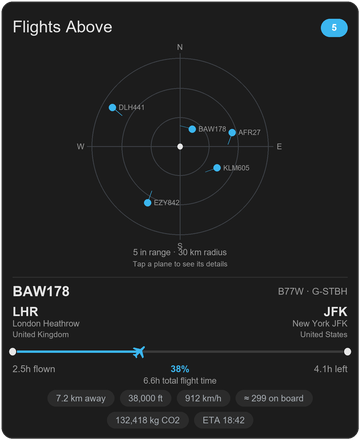
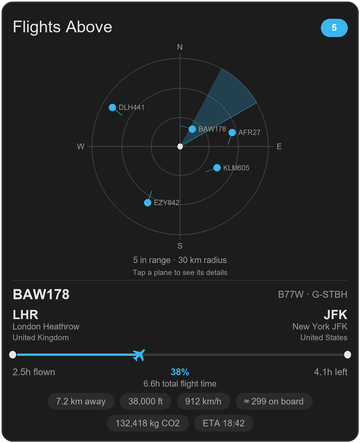
Radar sweep on each refresh; more space under the radar
- The radar plays a single sweep, like a real one, each time new data
  arrives (not a constant spin). Respects prefers-reduced-motion.
- The card now only re-renders when its own data or the selection
  changes, so the sweep fires once per refresh instead of every tick.
- Caption no longer touches the radar; screenshots regenerated.

diff --git a/custom_components/flights_above/lovelace/flights-above-card.js b/custom_components/flights_above/lovelace/flights-above-card.js
@@ -44,6 +44,24 @@ class FlightsAboveCard extends HTMLElement {
 
   set hass(hass) {
     this._hass = hass;
+    if (!this._config) return;
+
+    // Only re-render when our own data (or the selection) actually changed, and
+    // trigger one radar sweep per data refresh rather than on every tick.
+    const parts = [];
+    const countObj = hass.states[this._countEntityId()];
+    if (countObj) parts.push(countObj.last_updated);
+    for (const id of this._flightEntityIds()) {
+      const s = hass.states[id];
+      if (s) parts.push(s.last_updated);
+    }
+    const dataStamp = parts.join(",");
+    const stamp = `${dataStamp}|${this._selected || ""}`;
+    if (stamp === this._stamp) return;
+
+    this._sweep = Boolean(dataStamp) && dataStamp !== this._dataStamp;
+    this._dataStamp = dataStamp;
+    this._stamp = stamp;
     this._render();
   }
 
@@ -227,6 +245,14 @@ class FlightsAboveCard extends HTMLElement {
           <text x="196" y="103" text-anchor="end" class="dir">E</text>
           <text x="100" y="196" text-anchor="middle" class="dir">S</text>
           <text x="4" y="103" text-anchor="start" class="dir">W</text>
+          ${
+            this._sweep
+              ? `<g class="sweep">
+                   <path class="sweep-wedge" d="M100,100 L100,14 A86,86 0 0,1 143,25.5 Z"/>
+                   <line x1="100" y1="100" x2="100" y2="14"/>
+                 </g>`
+              : ""
+          }
           <circle cx="100" cy="100" r="3.5" class="home"/>
           ${marks}
         </svg>
@@ -323,6 +349,9 @@ class FlightsAboveCard extends HTMLElement {
     this.shadowRoot.querySelectorAll(".hit").forEach((el) => {
       el.addEventListener("click", () => this._select(el.getAttribute("data-cs")));
     });
+
+    // The sweep plays once per data refresh, not on selection re-renders.
+    this._sweep = false;
   }
 
   _styles() {
@@ -431,8 +460,23 @@ class FlightsAboveCard extends HTMLElement {
       .radar .blip-label { fill: var(--secondary-text-color); font-size: 9px; }
       .radar .blip-label.sel { fill: var(--primary-text-color); font-weight: 700; }
       .radar .hit { fill: transparent; cursor: pointer; }
+      .radar .sweep {
+        transform-box: view-box; transform-origin: 100px 100px;
+        animation: fa-sweep 1.8s linear 1 forwards; pointer-events: none;
+      }
+      .radar .sweep line {
+        stroke: var(--primary-color); stroke-width: 2; stroke-linecap: round;
+      }
+      .radar .sweep-wedge { fill: var(--primary-color); opacity: 0.18; }
+      @keyframes fa-sweep {
+        from { transform: rotate(0deg); opacity: 1; }
+        to { transform: rotate(360deg); opacity: 0; }
+      }
+      @media (prefers-reduced-motion: reduce) {
+        .radar .sweep { animation: none; opacity: 0; }
+      }
       .radar-caption {
-        margin-top: 4px; font-size: 0.75rem; color: var(--secondary-text-color);
+        margin-top: 12px; font-size: 0.75rem; color: var(--secondary-text-color);
       }
       .radar-note {
         margin-top: 2px; font-size: 0.7rem; color: var(--secondary-text-color);

diff --git a/README.md b/README.md
@@ -13,7 +13,7 @@ with hours, an estimated CO₂ footprint, and people on board (light and dark):
 Turn on `show_radar` and it also draws a radar of **every** aircraft around you,
 plotted by real bearing and distance:
 
-![Radar view, light](https://raw.githubusercontent.com/Tobhs/flights_above/main/assets/radar-view-light.png) ![Radar view, dark](https://raw.githubusercontent.com/Tobhs/flights_above/main/assets/radar-view-dark.png)
+![Radar view, light](https://raw.githubusercontent.com/Tobhs/flights_above/main/assets/radar-view-light.png?v=2) ![Radar view, dark](https://raw.githubusercontent.com/Tobhs/flights_above/main/assets/radar-view-dark.png?v=2)
 
 All data comes from **free, open community APIs: no account, no API key, nothing
 to pay**:
@@ -166,7 +166,7 @@ Set `show_radar: true` to draw a radar around your location. Your position is th
 centre, north is up, and every aircraft currently inside your radius is plotted by
 its real bearing and distance (not just the ones listed below it):
 
-![Radar view, light](https://raw.githubusercontent.com/Tobhs/flights_above/main/assets/radar-view-light.png) ![Radar view, dark](https://raw.githubusercontent.com/Tobhs/flights_above/main/assets/radar-view-dark.png)
+![Radar view, light](https://raw.githubusercontent.com/Tobhs/flights_above/main/assets/radar-view-light.png?v=2) ![Radar view, dark](https://raw.githubusercontent.com/Tobhs/flights_above/main/assets/radar-view-dark.png?v=2)
 
 ```yaml
 type: custom:flights-above-card
@@ -180,7 +180,9 @@ show_radar: true
 The rings mark a third, two thirds, and the full radius you configured. Callsigns
 are labelled when six or fewer aircraft are in range, so it stays readable when the
 sky is busy, and each blip has a short line showing **which way that aircraft is
-heading**.
+heading**. Each time new data arrives the radar plays a **sweep**, like a real one,
+so you can see at a glance that it just refreshed (it respects your reduced-motion
+setting).
 
 **Tap a plane** on the radar and the section underneath switches to that aircraft's
 details instead of the usual list. It goes back to the normal list on its own after